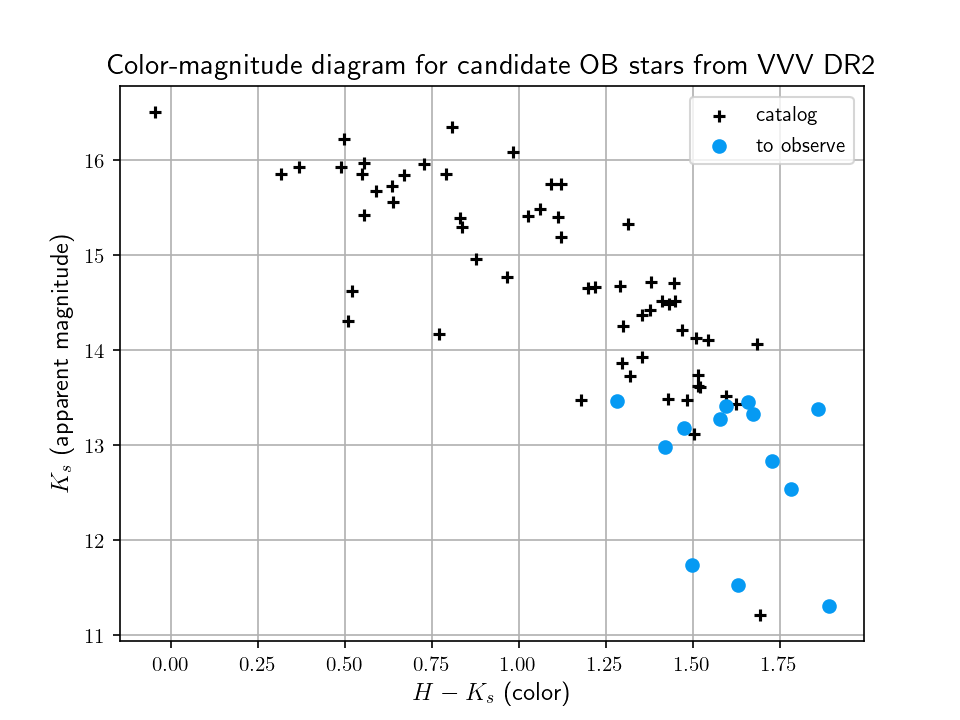
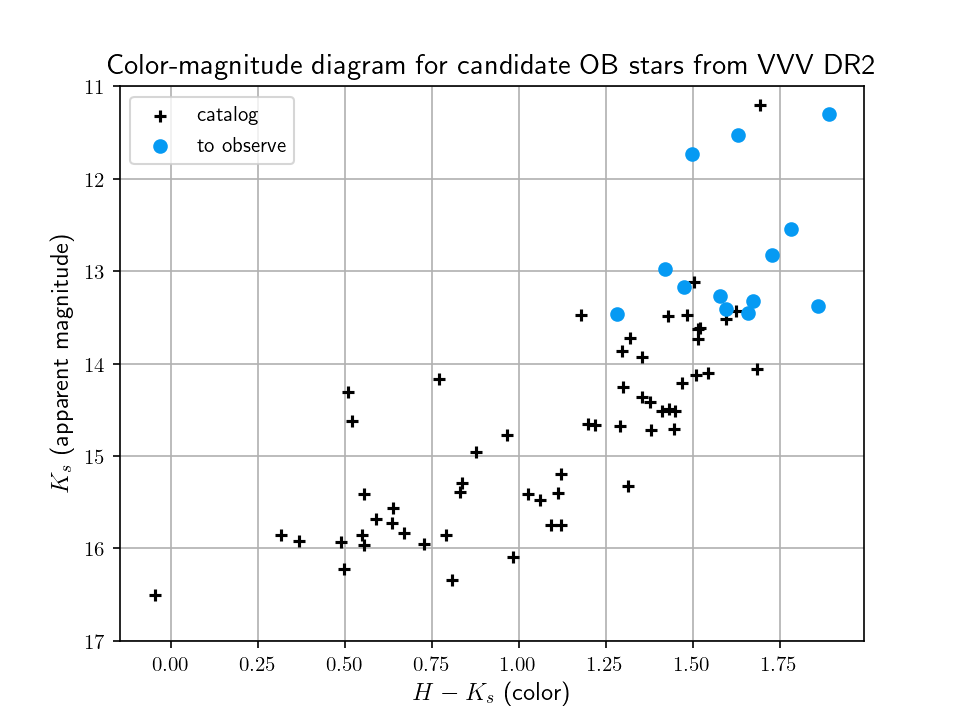
Changed direction of y-axis on CMD

diff --git a/bubble/cmd_VVV_GDR2.py b/bubble/cmd_VVV_GDR2.py
@@ -79,9 +79,11 @@ plt.figure(dpi = 150)
 plt.grid()
 plt.scatter(Hmag3-Ksmag3, Ksmag3, color='xkcd:black', marker='+', label="catalog")
 plt.scatter(Hmag3_sel-Ksmag3_sel, Ksmag3_sel, color='xkcd:azure', marker='o', label="to observe")
+plt.gca().invert_yaxis()
 plt.xlabel(r"$H - K_s$ (color)", size = 12)
 plt.ylabel(r"$K_s$ (apparent magnitude)", size = 12)
-plt.legend(loc="upper right")
+plt.ylim(17, 11)
+plt.legend(loc="upper left")
 plt.title("Color-magnitude diagram for candidate OB stars from VVV DR2", size = 14)
 plt.savefig("cmd.png")
 plt.show()
